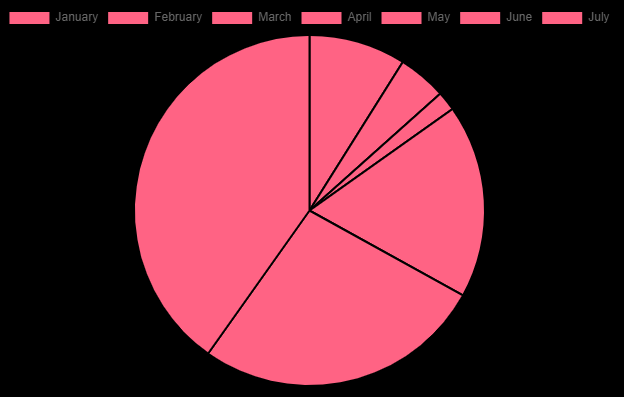
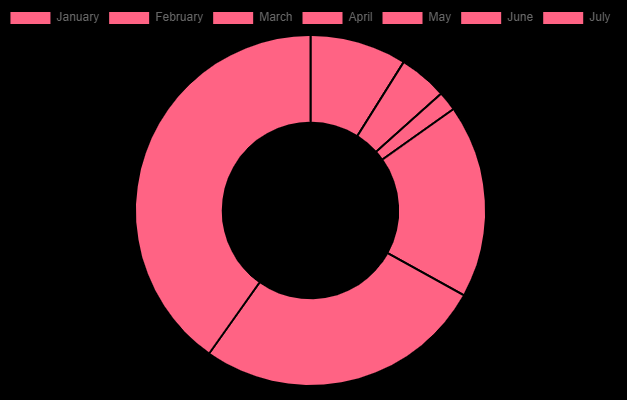
Update - Visual Service Proto Init(2) => DB Modeling

diff --git a/WebCrawler/src/main/webapp/styles/css/visualMake.css b/WebCrawler/src/main/webapp/styles/css/visualMake.css
@@ -209,10 +209,99 @@ section {
 	width: 100%;
 	height: 100%;
 	z-index: 250;
+	justify-content: center;
+	overflow: scroll;
+}
+
+.loading::-webkit-scrollbar {
+    display: none;
+}
+
+.loading table {
+	margin-top: 0;
+}
+
+.loading thead .theadTitle td{
+	font-size: 10rem;
+	text-align: center;
+}
+
+.loading thead .theadContent{
+	font-size: 5rem;
+	display: flex;
+	flex-direction: row;
+	justify-content: flex-end;
+	flex-wrap: nowrap;
+	border-bottom: 3px solid white;
+}
+
+.loading thead .theadContent td{
+	font-size: 5rem;
+	display: flex;
+}
+
+.loading thead .theadContent div {
+	margin-right: 2rem;
+	border: 1rem solid white;
+	border-radius: 1rem;
+	cursor: pointer;
+	padding: .5rem;
+}
+
+.loading thead .theadContent div:hover {
+	background: white;
+	color: black;
+	transform: translateY(-3px);
+	transition: .5s;
+}
+
+.loading tbody tr {
+	margin-top: 1rem;
+	display: flex;
+	text-align: center;
+	display: flex;
 	align-items: center;
 	justify-content: center;
 }
 
+.loading tbody td {
+	font-size: 3rem;
+	flex: 1;
+	transition: .7s;
+	cursor: pointer;
+	display: flex;
+	justify-content: center;
+	align-items: center;
+	position: relative;
+}
+
+.loading tbody td:hover {
+	opacity: .8;
+	border: .5rem white solid;
+}
+
+.loading tbody td div {
+	opacity: 0;
+	position: absolute;
+	background: transparent;
+	color: black;
+	transition: .7s;
+	display: flex;
+	align-items: center;
+	justify-content: center;
+}
+
+.pink {
+	border-radius: 2rem;
+	height: 5rem;
+	background: #ff6384;
+}
+
+.skyblue {
+	border-radius: 2rem;
+	height: 5rem;
+	background: #92cdb1;
+}
 
 /* animation keyframe */
 @keyframes fadeIn {

diff --git a/WebCrawler/src/main/webapp/styles/js/visualMake.js b/WebCrawler/src/main/webapp/styles/js/visualMake.js
@@ -33,9 +33,14 @@ function onVisual(iseq,type){
 		
 		numInput.value = numIseq;
 		strInput.value = strIseq;
-		
-		document.visualForm.submit();
 	}
+}
+
+function onSubmit(color) {
+	let colorInput = document.getElementById('color');
+	colorInput.value = color;
+	
+	document.visualForm.submit();
 }
 
 function offVisual(iseq){
@@ -57,4 +62,14 @@ function offVisual(iseq){
 	btnGrp.style.display = "flex";
 	contentCard.style.background = "";
 	chkBlind.style.opacity = "";
+}
+
+function onColor(color){
+	let colorDiv = document.getElementsByClassName('color ' + color)[0];
+	colorDiv.style.opacity = 1;
+}
+
+function offColor(color){
+	let colorDiv = document.getElementsByClassName('color ' + color)[0];
+	colorDiv.style.opacity = 0;
 }

diff --git a/WebCrawler/src/main/webapp/styles/css/visualConfirm.css b/WebCrawler/src/main/webapp/styles/css/visualConfirm.css
@@ -52,6 +52,7 @@ section {
 
 .contents {
 	width: 50%;
+	overflow: hidden;
 	display: flex;
 	flex-direction: column;
 	margin-top: 7.5rem;
@@ -72,10 +73,18 @@ section {
 }
 
 .contentsItem {
+	display: flex;
+	flex-direction: column;
+	overflow: visible;
 	padding: 3rem;
 	border: 2px solid black;
 	border-radius: 1rem;
 	box-shadow: .5rem .5rem .5rem 0 black; 
+}
+
+.contentsItem canvas{
+	flex: 1;
+	overflow: auto;
 }
 
 .contentsItem input {

diff --git a/WebCrawler/src/main/java/com/modoo/wrk/view/VisualController.java b/WebCrawler/src/main/java/com/modoo/wrk/view/VisualController.java
@@ -16,7 +16,7 @@ public class VisualController {
 	private DataService dataService;
 	
 	@RequestMapping("visualMake.do")
-	public String visualMake(Integer numIseq, Integer strIseq,
+	public String visualMake(Integer numIseq, Integer strIseq, String color, String vtype,
 			Model model) {
 		System.out.println("숫자 리스트 => " + numIseq);
 		System.out.println("문자 리스트 => " + strIseq);
@@ -43,6 +43,14 @@ public class VisualController {
 			strList.set(i, str);
 		}
 		
+		if(color.equals("pink")) {
+			color = "\'rgb(255, 99, 132)\'";
+		} else if(color.equals("skyblue")) {
+			color = "\'rgb(146, 205, 177)\'";
+		}
+		
+		model.addAttribute("vtype", "\'" + vtype + "\'");
+		model.addAttribute("color", color);
 		model.addAttribute("numList", numList);
 		model.addAttribute("strList", strList);		
 		
